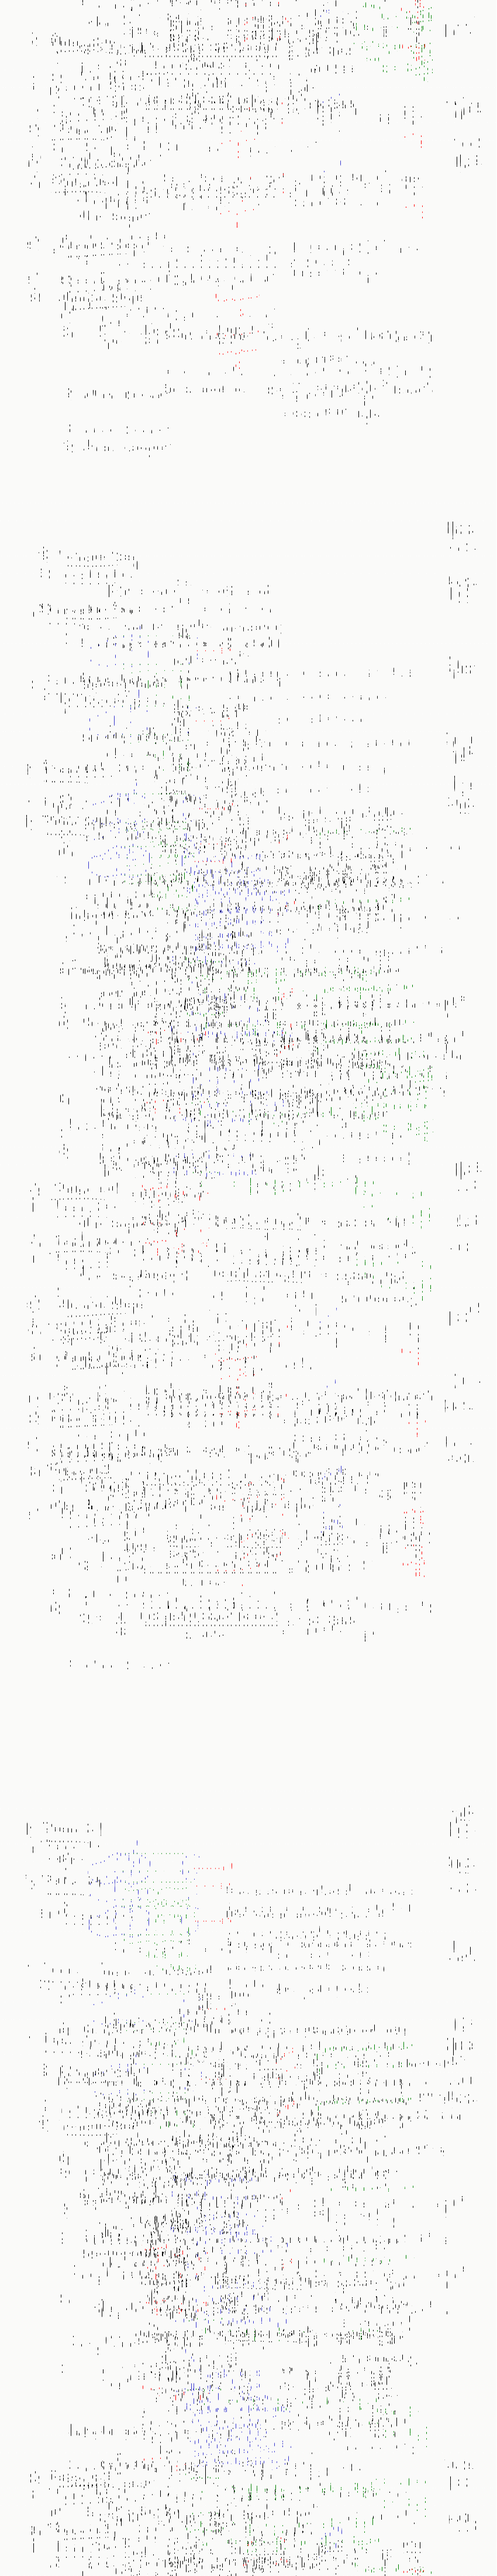
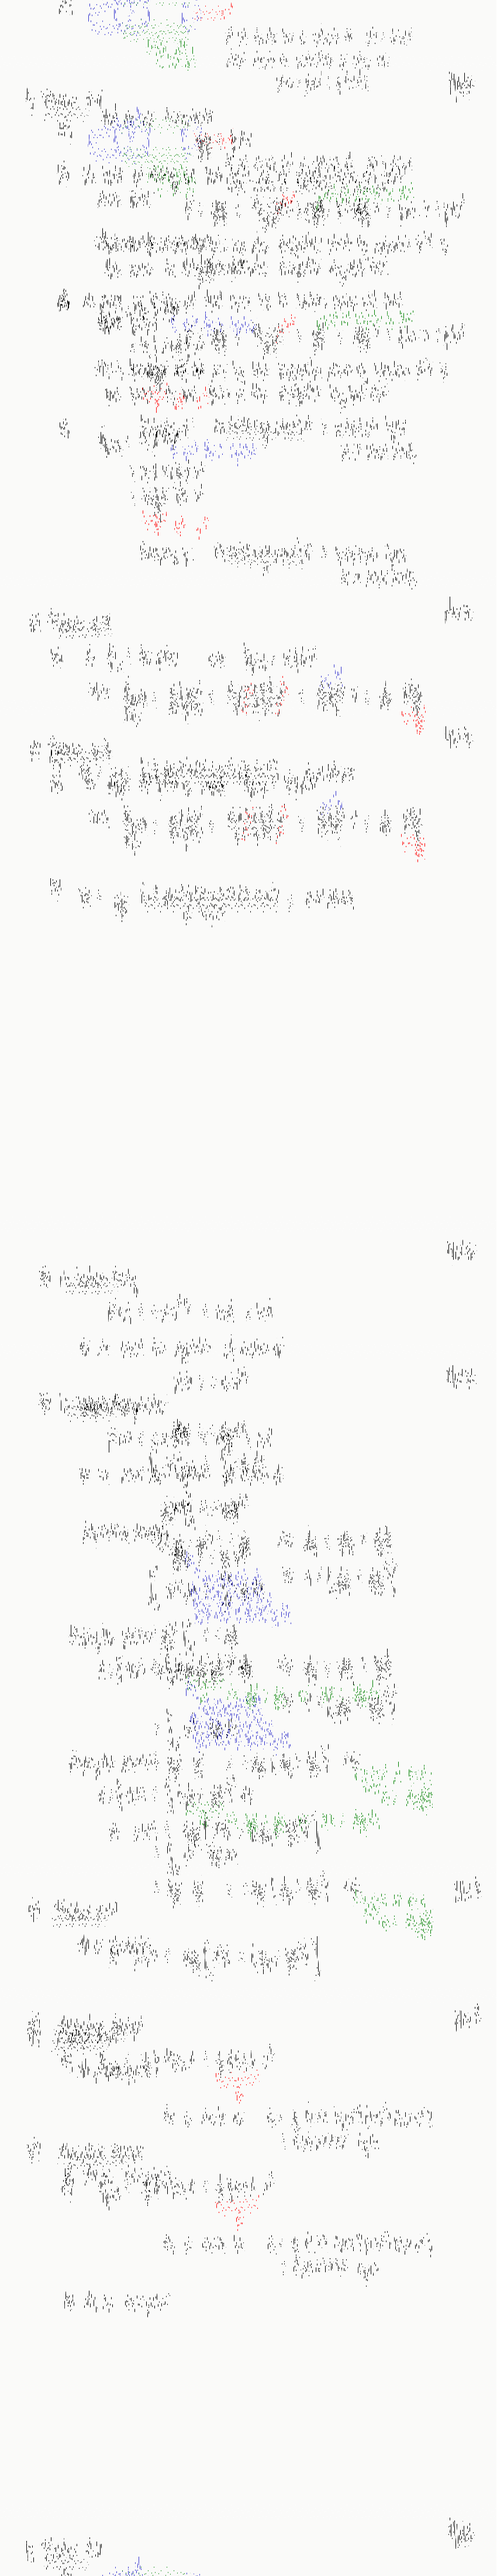
Trying a smaller shift

diff --git a/image_test.js b/image_test.js
@@ -53,7 +53,7 @@ function decode() {
 	pswrd = input.value();
 	moves = []
 	for (i=0; i < pswrd.length; i++){
-		moves.push(30*pswrd.charCodeAt(i));
+		moves.push(1*pswrd.charCodeAt(i));
 	}
 	console.log(moves)
 
